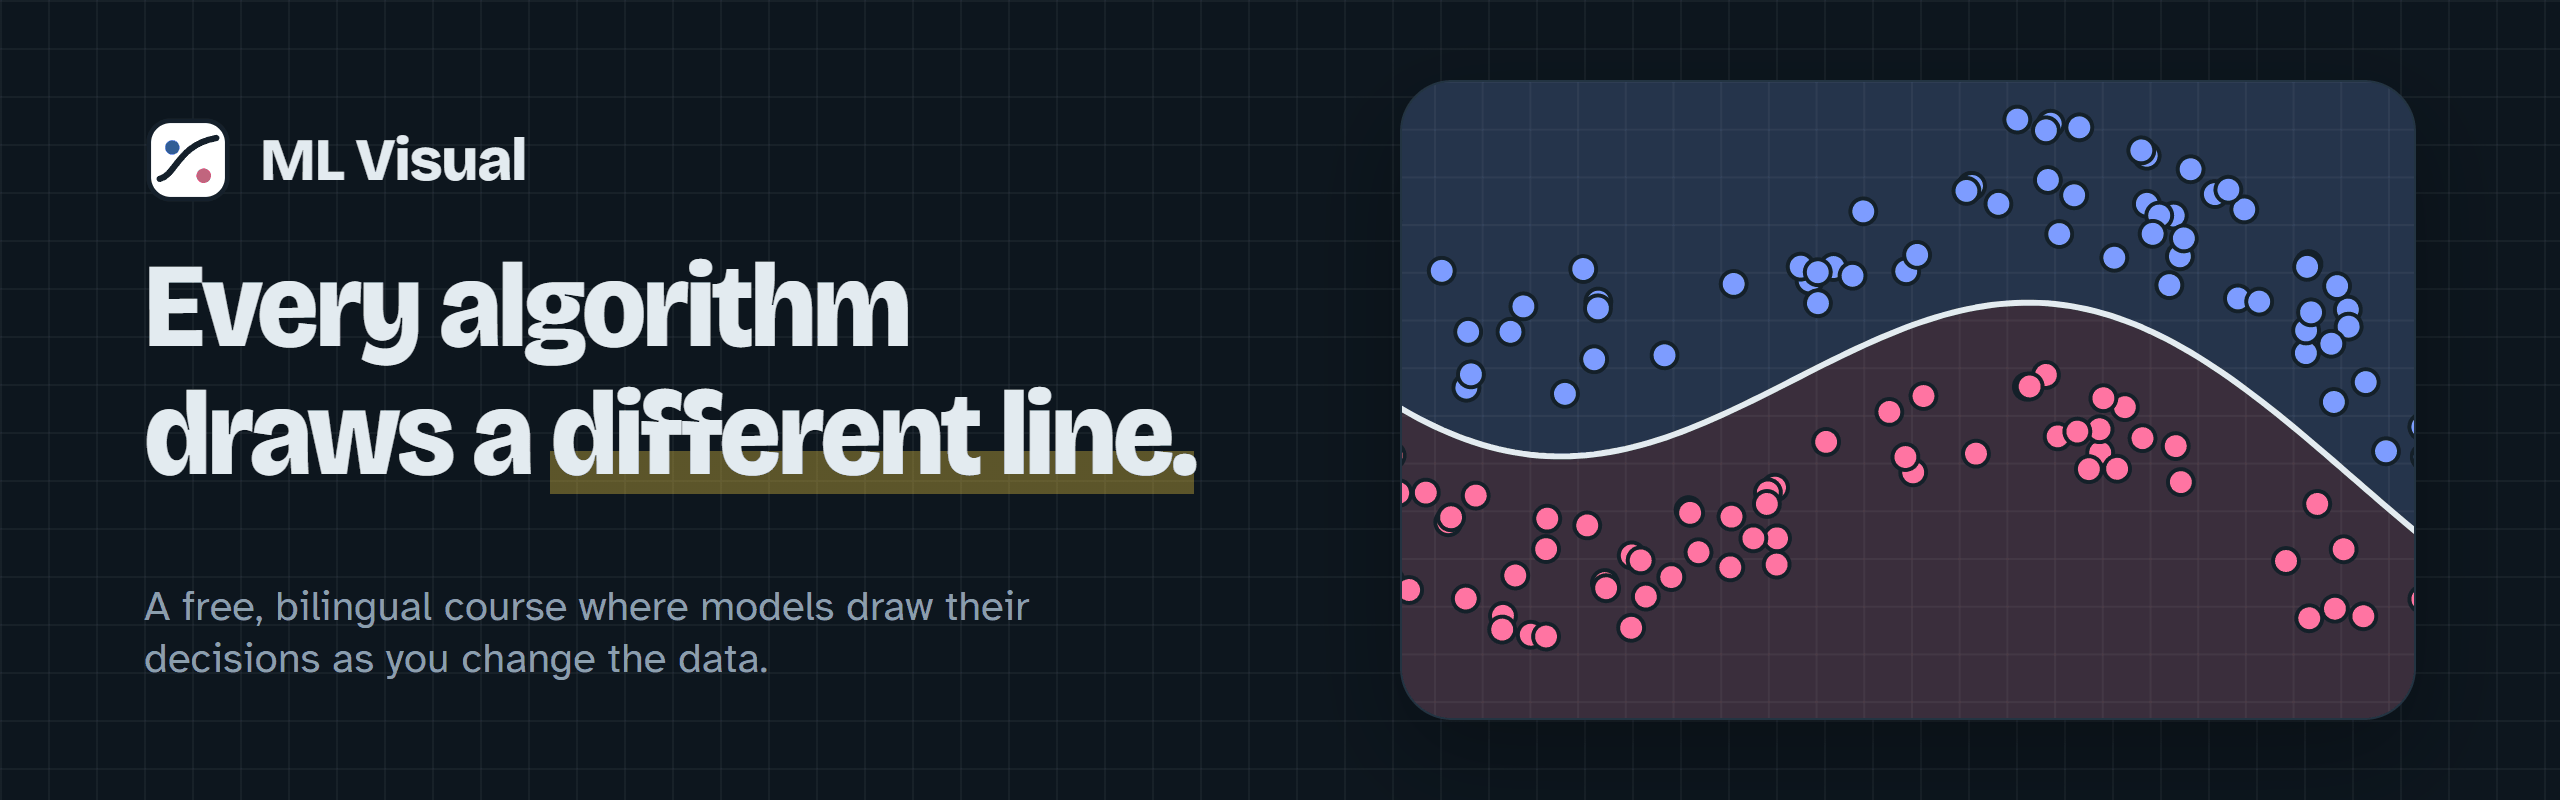
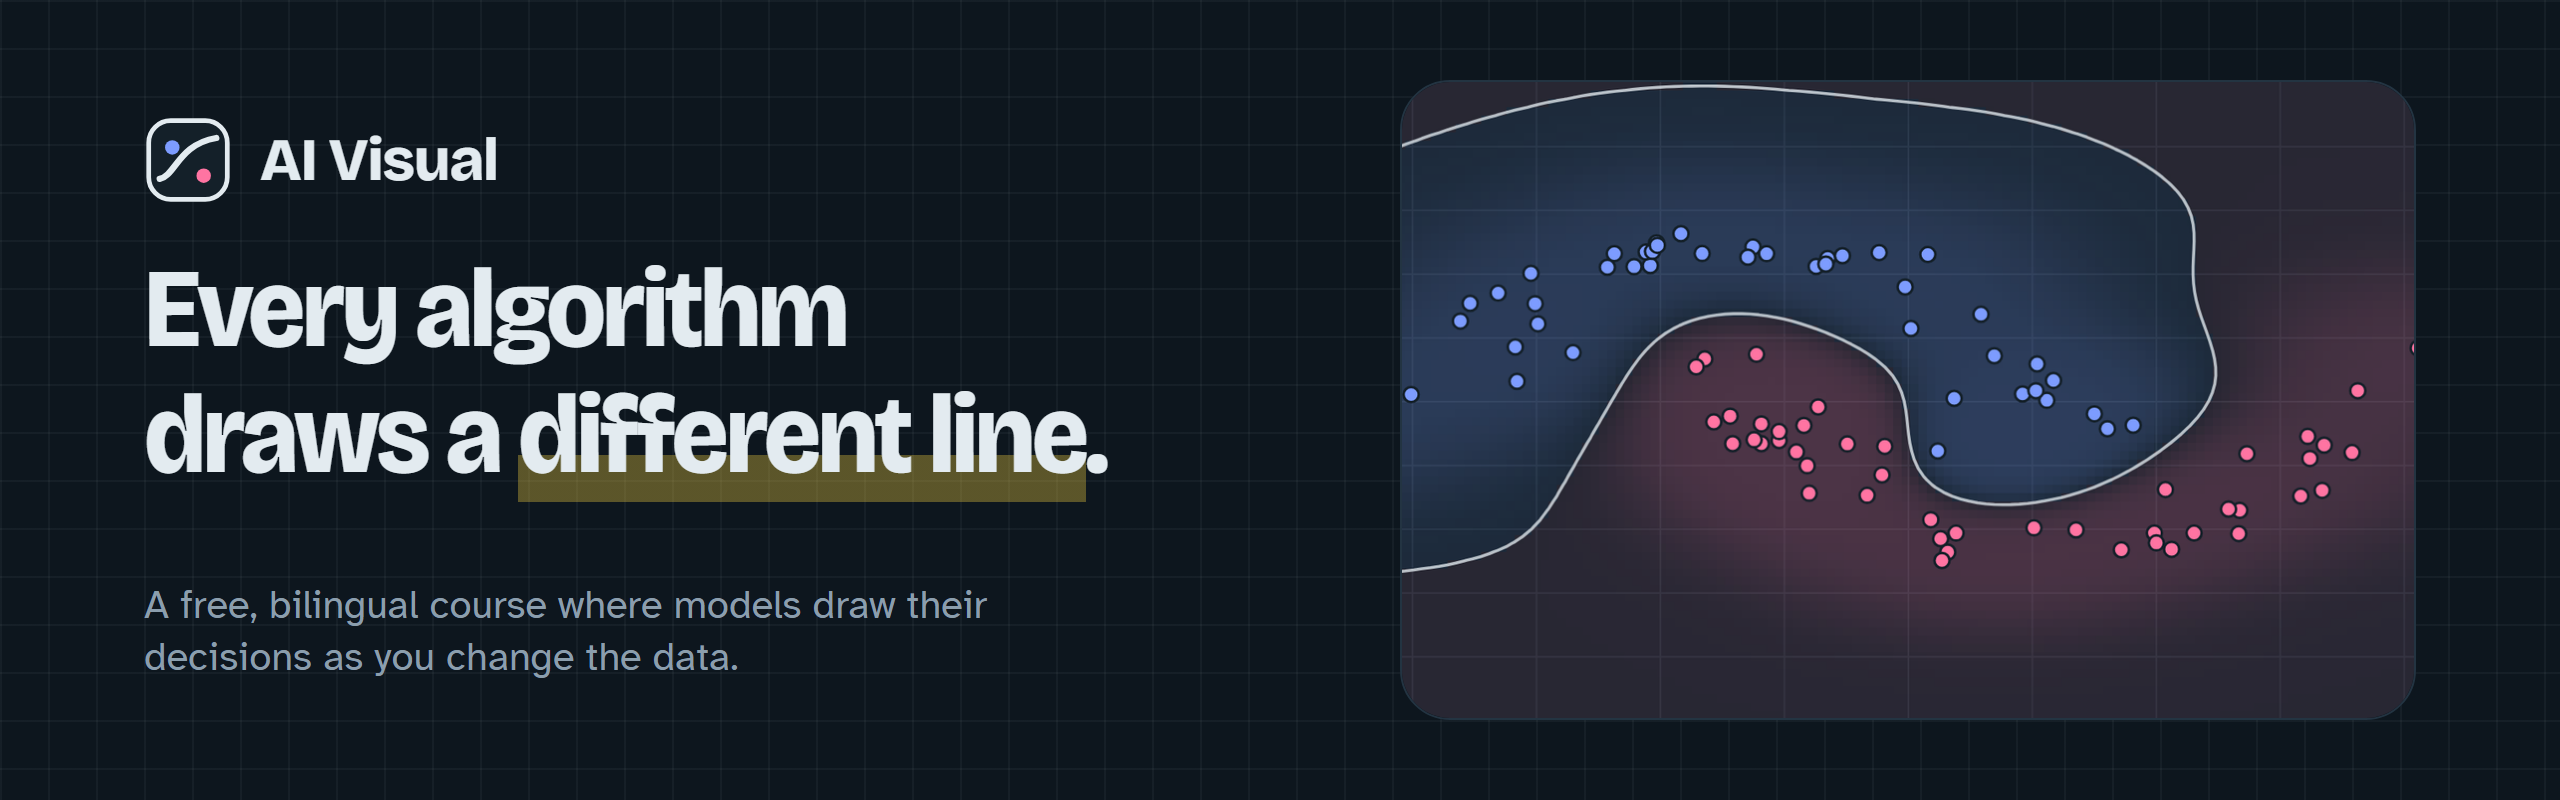
Retake the README images with AI Visual, and add scripts/shots.mjs
scripts/shots.mjs drives the installed Chrome over the DevTools Protocol (no new
dependencies) and regenerates the six README screenshots and both banners from the live
site (or a local preview URL). Images retaken after the AI Visual rename and the new
Learn and Play steps. Script by Codex (gpt-6.2-sol, high); run and reviewed by Claude.

diff --git a/scripts/shots-banner.html b/scripts/shots-banner.html
@@ -1,0 +1,24 @@
+<style>
+  .banner {
+    display: grid; grid-template-columns: 548px 508px; gap: 80px; align-items: center;
+    width: 1280px; height: 400px; padding: 40px 72px;
+  }
+  .banner-brand {
+    display: flex; align-items: center; gap: 14px; margin-bottom: 22px;
+    font: 750 30px/1 var(--display); letter-spacing: -.02em;
+  }
+  .banner-brand svg { width: 44px; height: 44px; }
+  .banner h1 { font: 750 56px/1.12 var(--display); letter-spacing: -.035em; font-stretch: 92%; }
+  .banner mark { padding: 0; background: linear-gradient(transparent 65%, var(--hl-mark) 65%); }
+  .banner p { max-width: 470px; margin-top: 40px; font: 20px/1.3 var(--body); color: var(--muted); }
+  .banner-board { display: block; width: 508px; height: 320px; border: 1px solid var(--rule); border-radius: 25px; }
+  :root[data-theme="light"] .banner-board { box-shadow: 0 20px 45px #15202b42; }
+</style>
+<main class="banner">
+  <div>
+    <div class="banner-brand">AI Visual</div>
+    <h1>Every algorithm<br>draws a <mark>different line</mark>.</h1>
+    <p>A free, bilingual course where models draw their decisions as you change the data.</p>
+  </div>
+  <img class="banner-board" alt="Live decision boundary between two groups of points">
+</main>

diff --git a/README.md b/README.md
@@ -131,6 +131,7 @@ npm run build    # static site in dist/
 ```
 
 Run `node scripts/og.mjs` to regenerate the social preview at [`public/og.png`](public/og.png).
+Regenerate the README screenshots and banners with `node scripts/shots.mjs` (Node 24 and Chrome or Edge); pass a base URL to capture a local preview instead of the live site.
 
 ## Tech
 
